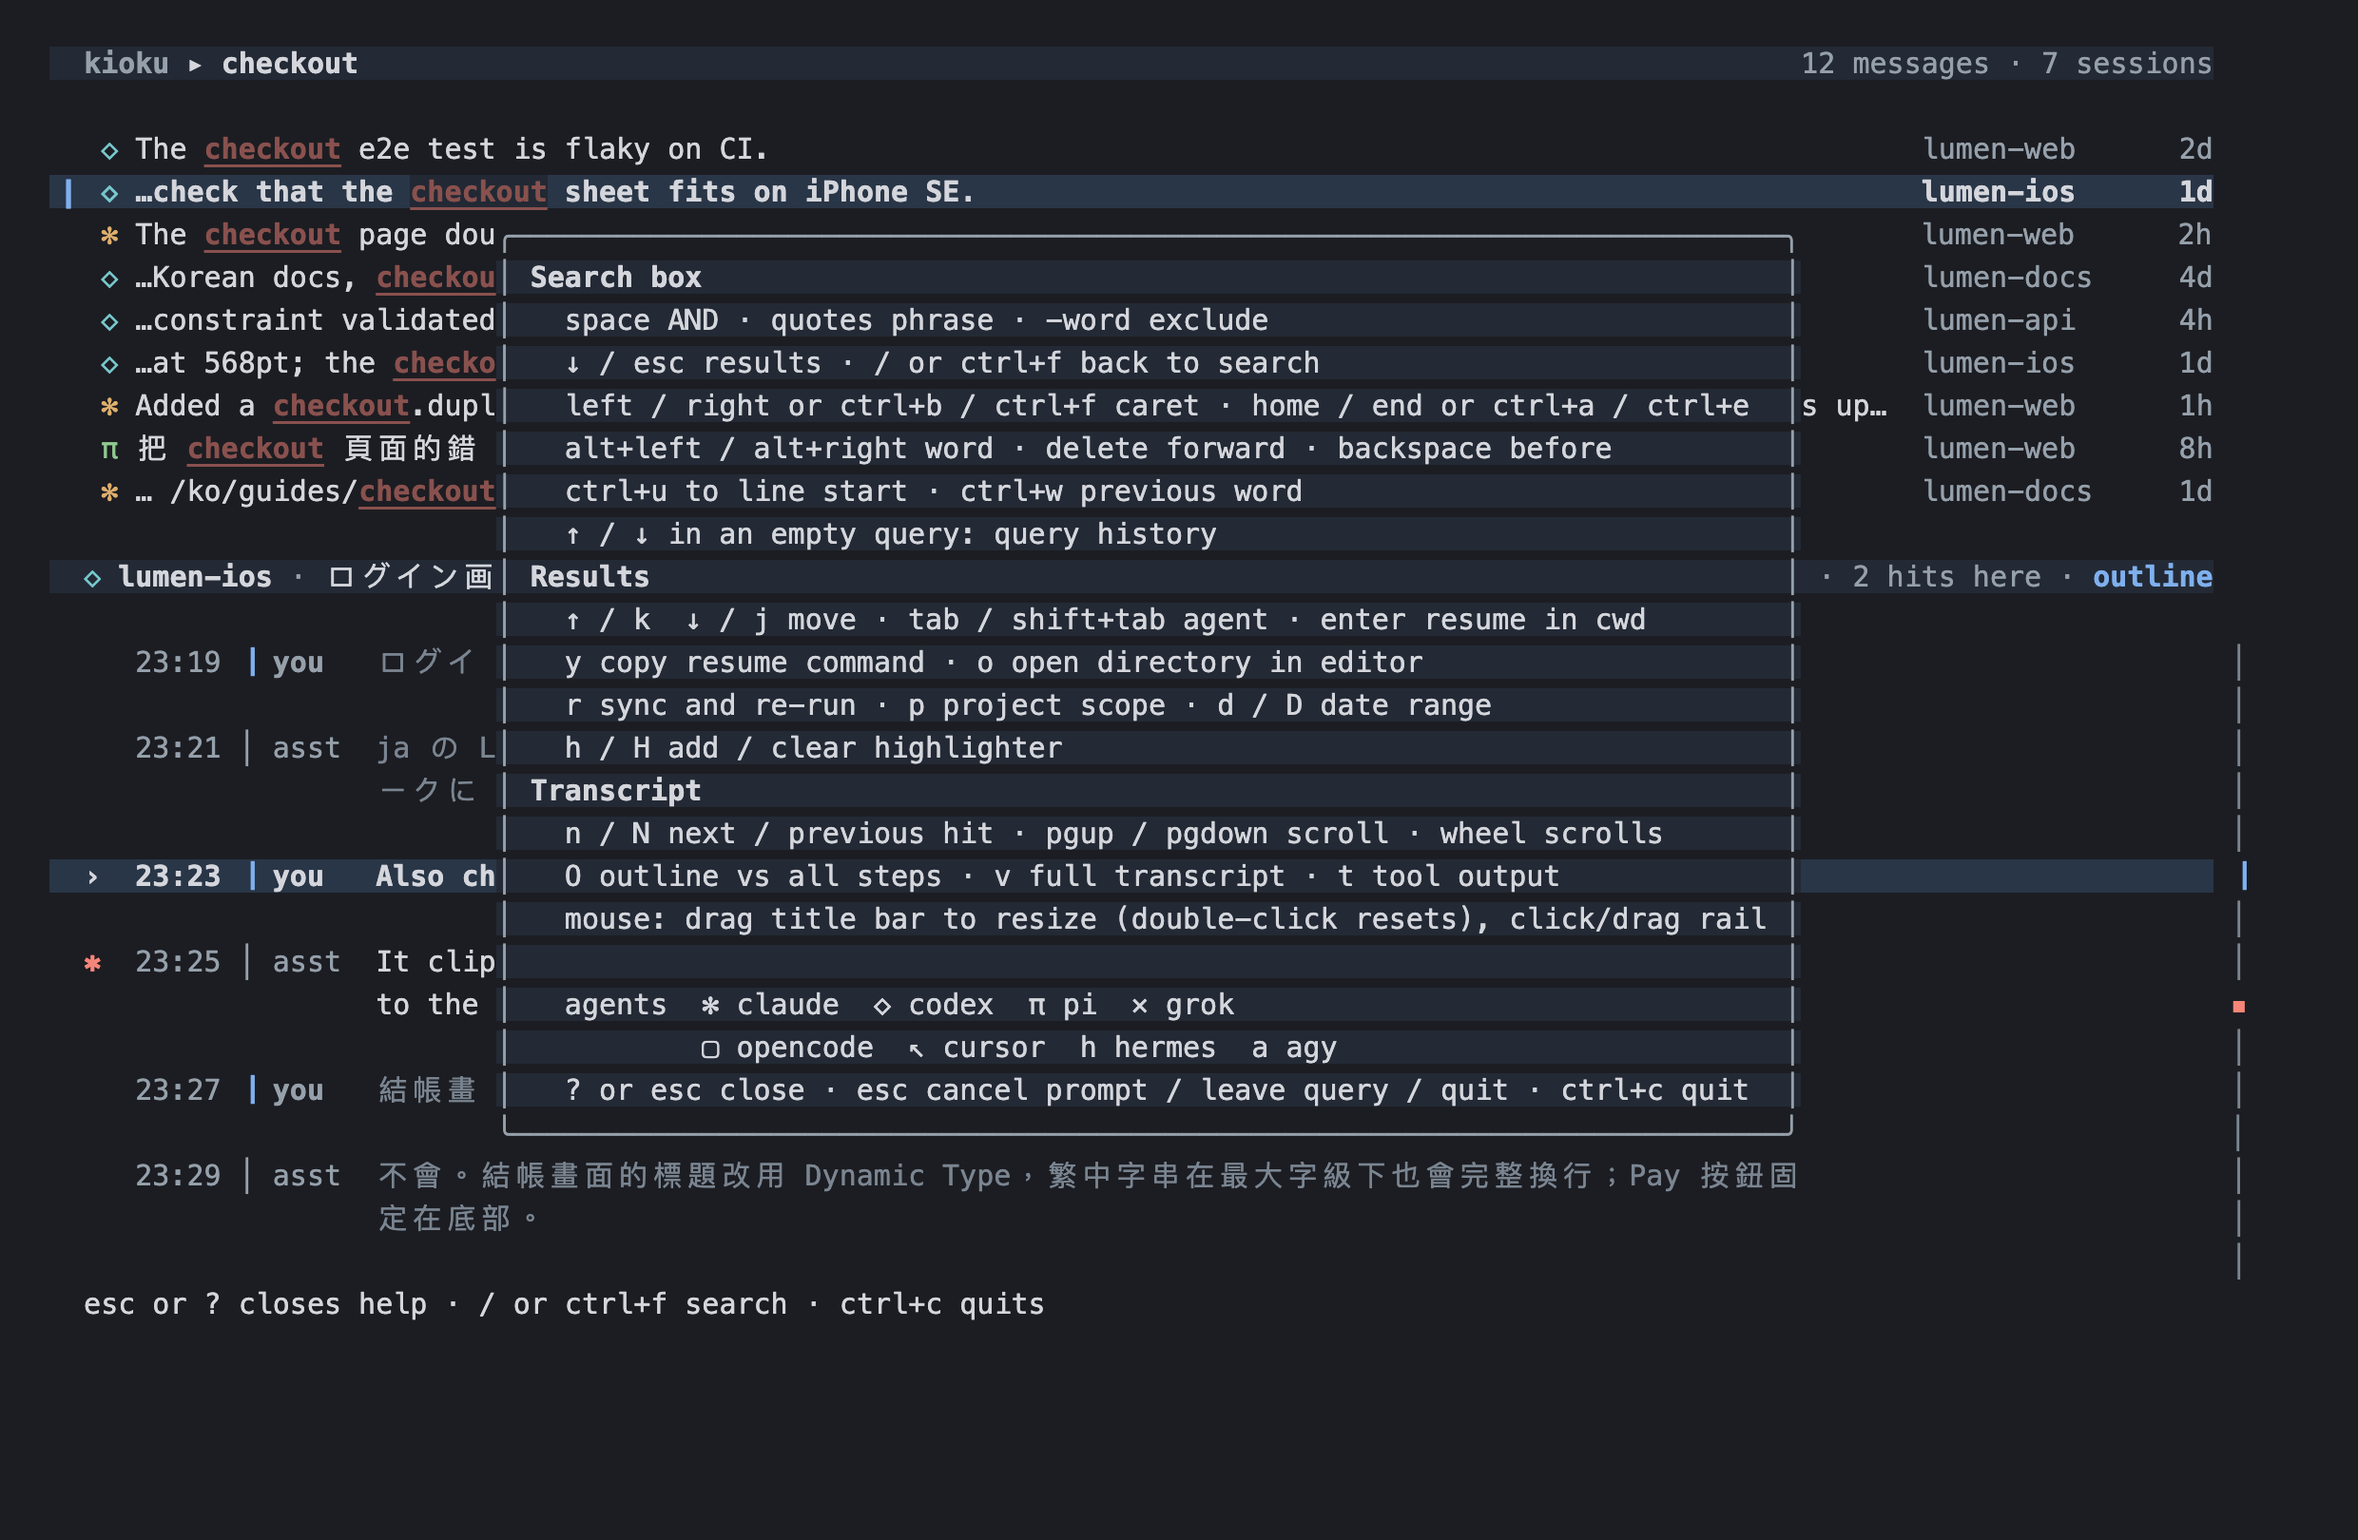
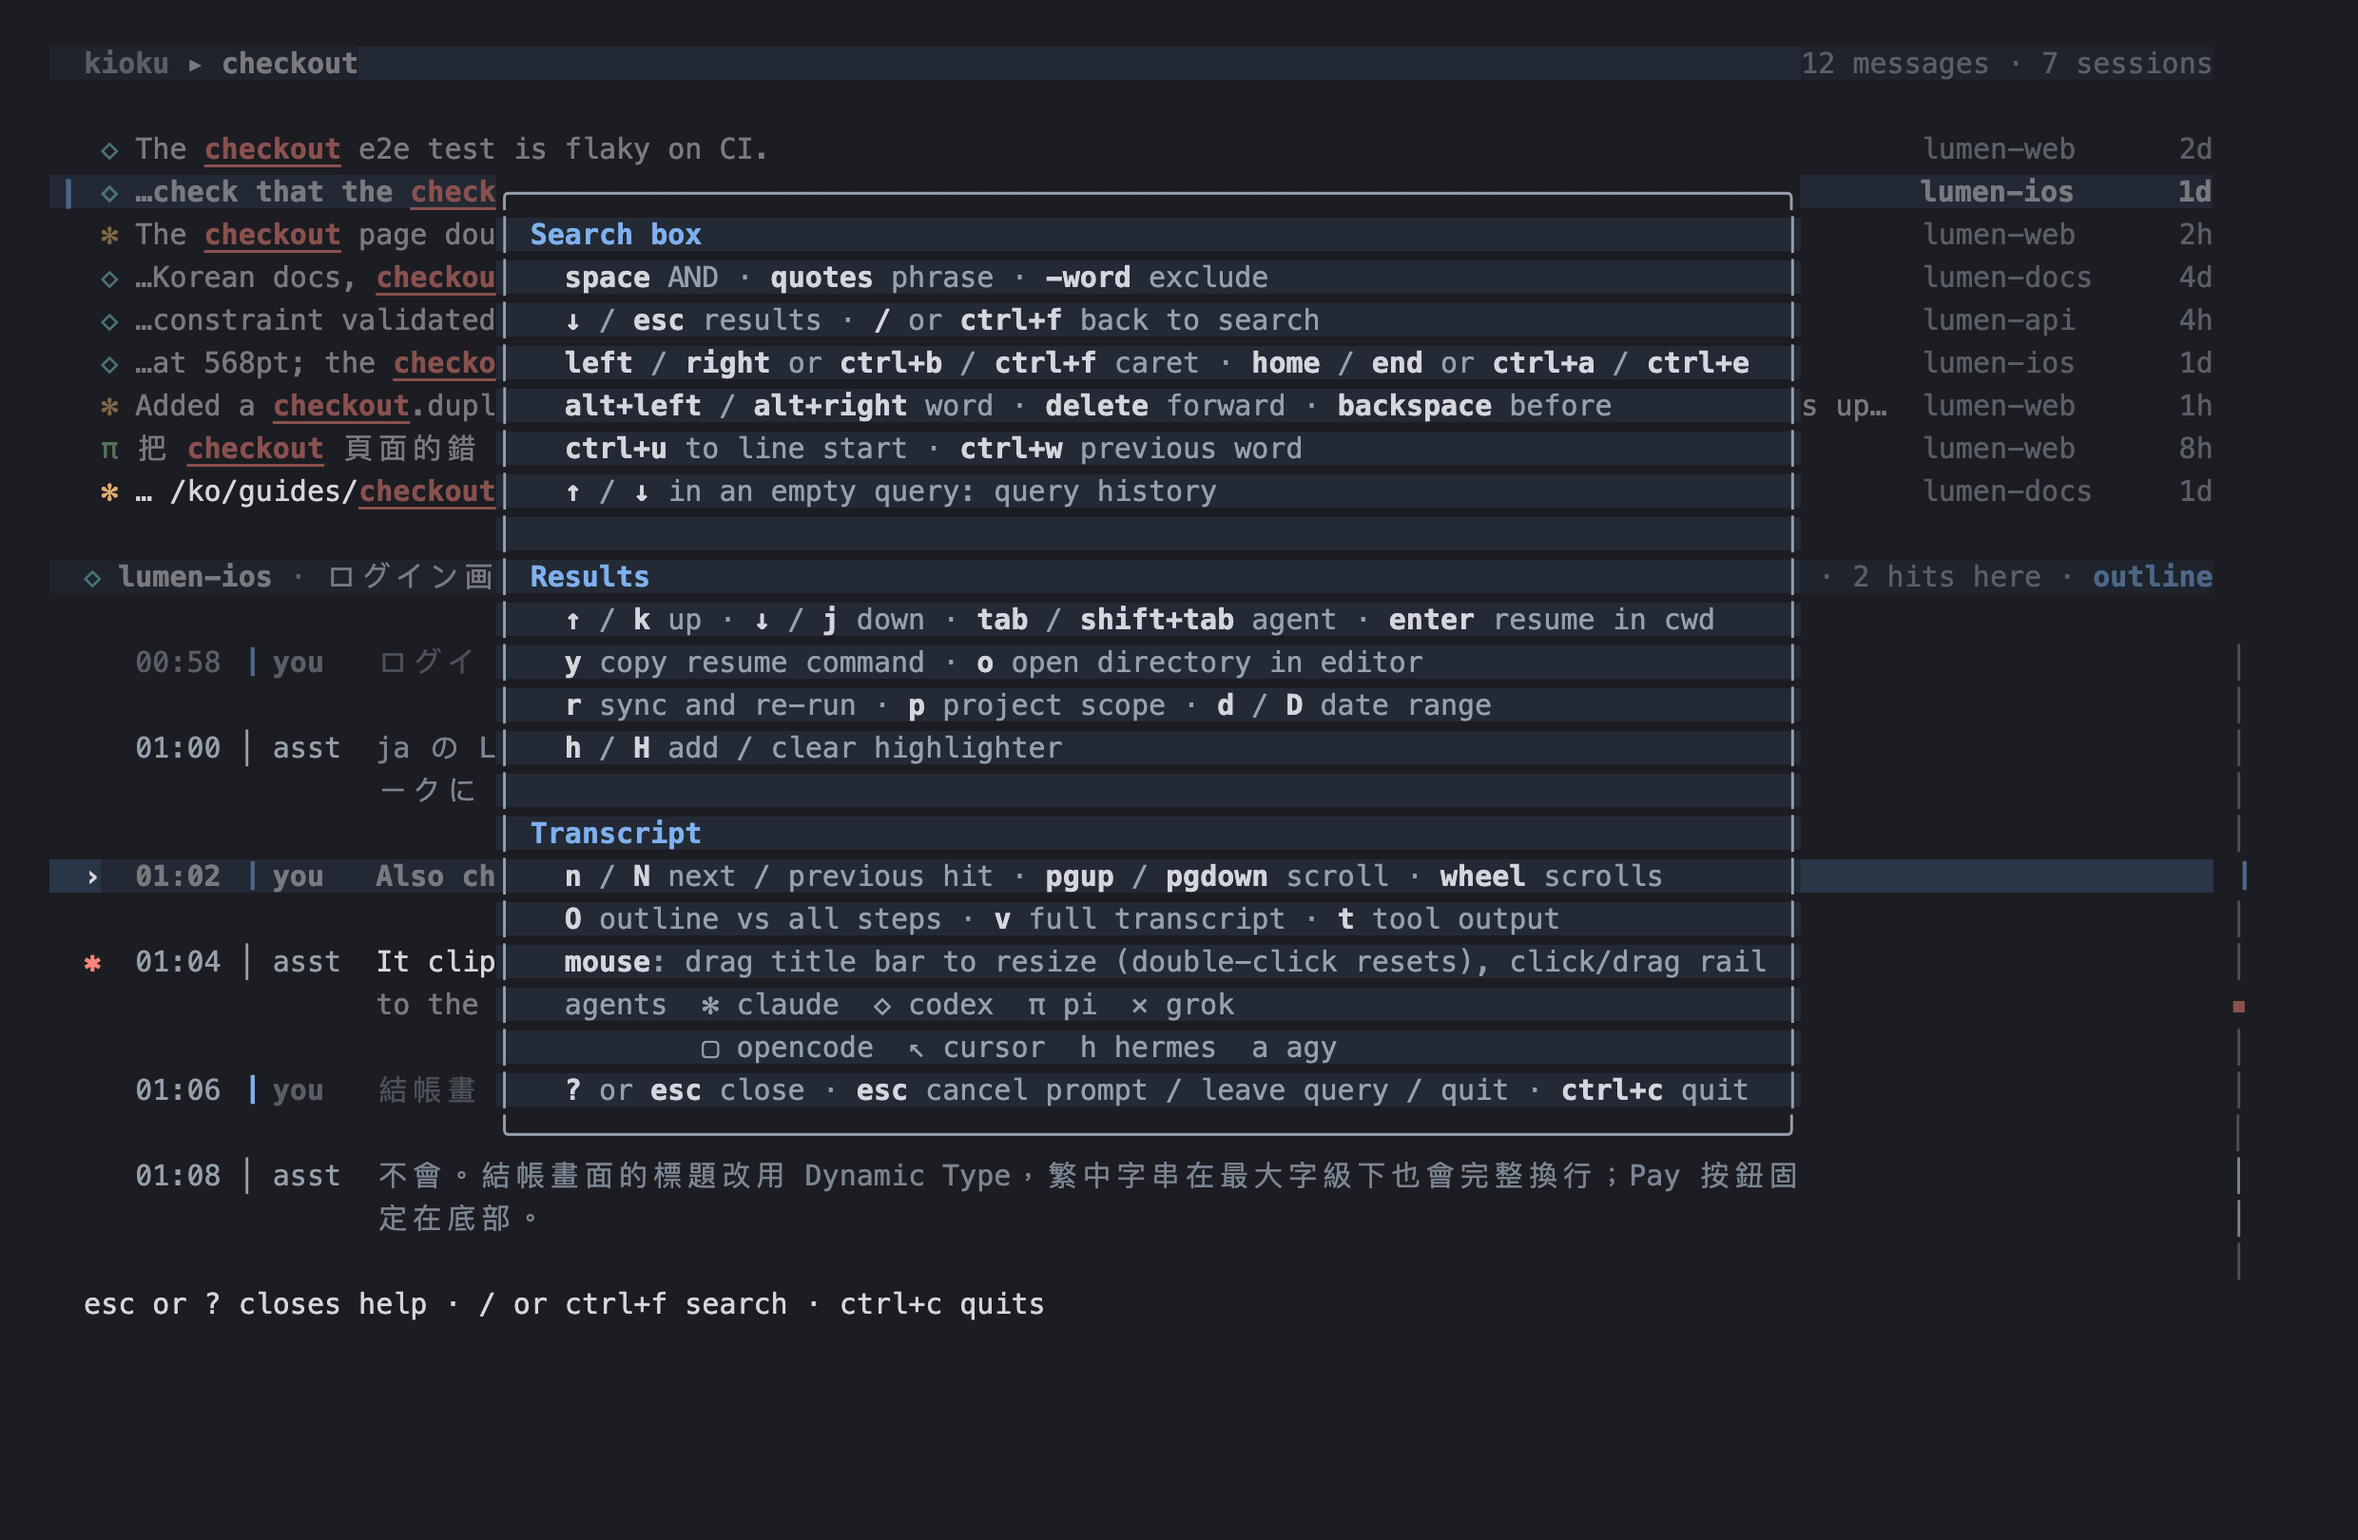
Restyle the help popup: accent group titles, bold keys, muted text, dimmed backdrop

diff --git a/ui_help.go b/ui_help.go
@@ -6,9 +6,16 @@ import (
 	"charm.land/lipgloss/v2"
 )
 
-// helpLines lists every handled key, grouped by where it applies. It must fit a 24-row terminal
-// inside the popup frame (22 rows) and 72 columns.
-func helpLines() []string {
+// helpMarked is the help text with each key wrapped in keyOpen/keyClose so the popup can set keys
+// apart from what they do.
+const (
+	keyOpen  = "\x02"
+	keyClose = "\x03"
+)
+
+func k(s string) string { return keyOpen + s + keyClose }
+
+func helpMarked() []string {
 	var agents []string
 	for _, h := range harnesses {
 		agents = append(agents, h.mark+" "+h.label)
@@ -16,31 +23,65 @@ func helpLines() []string {
 	half := (len(agents) + 1) / 2
 	return []string{
 		"Search box",
-		"  space AND · quotes phrase · -word exclude",
-		"  ↓ / esc results · / or ctrl+f back to search",
-		"  left / right or ctrl+b / ctrl+f caret · home / end or ctrl+a / ctrl+e",
-		"  alt+left / alt+right word · delete forward · backspace before",
-		"  ctrl+u to line start · ctrl+w previous word",
-		"  ↑ / ↓ in an empty query: query history",
-		"Results",
-		"  ↑ / k  ↓ / j move · tab / shift+tab agent · enter resume in cwd",
-		"  y copy resume command · o open directory in editor",
-		"  r sync and re-run · p project scope · d / D date range",
-		"  h / H add / clear highlighter",
-		"Transcript",
-		"  n / N next / previous hit · pgup / pgdown scroll · wheel scrolls",
-		"  O outline vs all steps · v full transcript · t tool output",
-		"  mouse: drag title bar to resize (double-click resets), click/drag rail",
+		"  " + k("space") + " AND · " + k("quotes") + " phrase · " + k("-word") + " exclude",
+		"  " + k("↓") + " / " + k("esc") + " results · " + k("/") + " or " + k("ctrl+f") + " back to search",
+		"  " + k("left") + " / " + k("right") + " or " + k("ctrl+b") + " / " + k("ctrl+f") + " caret · " + k("home") + " / " + k("end") + " or " + k("ctrl+a") + " / " + k("ctrl+e"),
+		"  " + k("alt+left") + " / " + k("alt+right") + " word · " + k("delete") + " forward · " + k("backspace") + " before",
+		"  " + k("ctrl+u") + " to line start · " + k("ctrl+w") + " previous word",
+		"  " + k("↑") + " / " + k("↓") + " in an empty query: query history",
 		"",
+		"Results",
+		"  " + k("↑") + " / " + k("k") + " up · " + k("↓") + " / " + k("j") + " down · " + k("tab") + " / " + k("shift+tab") + " agent · " + k("enter") + " resume in cwd",
+		"  " + k("y") + " copy resume command · " + k("o") + " open directory in editor",
+		"  " + k("r") + " sync and re-run · " + k("p") + " project scope · " + k("d") + " / " + k("D") + " date range",
+		"  " + k("h") + " / " + k("H") + " add / clear highlighter",
+		"",
+		"Transcript",
+		"  " + k("n") + " / " + k("N") + " next / previous hit · " + k("pgup") + " / " + k("pgdown") + " scroll · " + k("wheel") + " scrolls",
+		"  " + k("O") + " outline vs all steps · " + k("v") + " full transcript · " + k("t") + " tool output",
+		"  " + k("mouse") + ": drag title bar to resize (double-click resets), click/drag rail",
 		"  agents  " + strings.Join(agents[:half], "  "),
 		"          " + strings.Join(agents[half:], "  "),
-		"  ? or esc close · esc cancel prompt / leave query / quit · ctrl+c quit",
+		"  " + k("?") + " or " + k("esc") + " close · " + k("esc") + " cancel prompt / leave query / quit · " + k("ctrl+c") + " quit",
 	}
+}
+
+// helpLines lists every handled key, grouped by where it applies. It must fit a 24-row terminal
+// inside the popup frame (22 rows) and 72 columns.
+func helpLines() []string {
+	out := helpMarked()
+	for i, l := range out {
+		out[i] = strings.NewReplacer(keyOpen, "", keyClose, "").Replace(l)
+	}
+	return out
+}
+
+// styleHelp paints group titles in the accent colour, keys bold, and the rest muted.
+func (m model) styleHelp(l string) string {
+	if l == "" {
+		return ""
+	}
+	if !strings.HasPrefix(l, " ") {
+		return lipgloss.NewStyle().Bold(true).Foreground(lipgloss.Color(m.pal.acc)).Render(l)
+	}
+	key := lipgloss.NewStyle().Bold(true)
+	var sb strings.Builder
+	for _, part := range strings.SplitAfter(l, keyClose) {
+		i := strings.Index(part, keyOpen)
+		if i < 0 {
+			sb.WriteString(m.color(part, m.pal.muted))
+			continue
+		}
+		sb.WriteString(m.color(part[:i], m.pal.muted))
+		sb.WriteString(key.Render(strings.NewReplacer(keyOpen, "", keyClose, "").Replace(part[i:])))
+	}
+	return sb.String()
 }
 
 // overlayHelp paints the help as a centred, opaque box over the screen the user was looking at.
 func (m model) overlayHelp(rows []string, w int) []string {
 	lines := helpLines()
+	styled := helpMarked()
 	inner := 0
 	for _, l := range lines {
 		inner = max(inner, displayWidth(l))
@@ -49,23 +90,26 @@ func (m model) overlayHelp(rows []string, w int) []string {
 	if boxW < 12 || boxH < 3 {
 		return rows
 	}
-	lines = lines[:boxH-2]
+	lines, styled = lines[:boxH-2], styled[:boxH-2]
 	edge := m.color
 	top := edge("╭"+strings.Repeat("─", boxW-2)+"╮", m.pal.muted)
 	bottom := edge("╰"+strings.Repeat("─", boxW-2)+"╯", m.pal.muted)
-	strong := lipgloss.NewStyle().Bold(true)
 	box := []string{top}
-	for _, l := range lines {
-		body := clip(l, boxW-4)
-		if !strings.HasPrefix(body, " ") && body != "" {
-			body = strong.Render(body) // group titles
+	for i, l := range lines {
+		body := m.styleHelp(styled[i])
+		if displayWidth(l) > boxW-4 {
+			body = clip(l, boxW-4) // too narrow to style safely
 		}
 		row := edge("│", m.pal.muted) + " " + pad(body, boxW-4) + " " + edge("│", m.pal.muted)
 		box = append(box, m.bgRow(row, boxW, m.pal.surf))
 	}
 	box = append(box, bottom)
+	back := make([]string, len(rows)) // dim the screen behind the popup so only the popup reads as active
+	for i, r := range rows {
+		back[i] = "\x1b[2m" + sgrCode.ReplaceAllStringFunc(r, func(c string) string { return c + "\x1b[2m" }) + "\x1b[22m"
+	}
 	out := lipgloss.NewCompositor(
-		lipgloss.NewLayer(strings.Join(rows, "\n")),
+		lipgloss.NewLayer(strings.Join(back, "\n")),
 		lipgloss.NewLayer(strings.Join(box, "\n")).X(x0).Y(y0).Z(1),
 	).Render()
 	res := strings.Split(out, "\n") // the compositor trims trailing blanks; restore the width

diff --git a/here_test.go b/here_test.go
@@ -4,6 +4,7 @@ import (
 	"context"
 	"database/sql"
 	"encoding/json"
+	"github.com/charmbracelet/x/ansi"
 	"os"
 	"path/filepath"
 	"reflect"
@@ -408,7 +409,7 @@ func TestHereTUITogglePreservesState(t *testing.T) {
 	}
 	m.focus = false
 	m.help = true
-	if !strings.Contains(m.View().Content, "p project scope") {
+	if !strings.Contains(ansi.Strip(m.View().Content), "p project scope") {
 		t.Fatal("help must document p")
 	}
 	t.Chdir(os.Getenv("HOME"))
